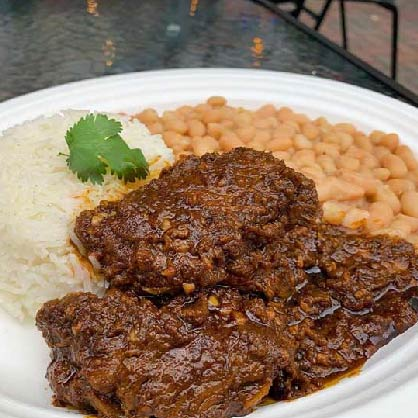
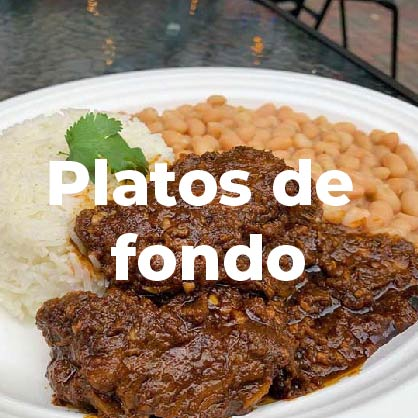
cambio de imagenes categorias

diff --git a/scss/_images.scss b/scss/_images.scss
@@ -25,30 +25,30 @@
     justify-content: space-between;
 }
 
-.categorias-imagen-piqueos{
-    background: url("../images/piqueo.jpg");
-    background-size: cover;
-    height: 300px;
-    width: 300px;
-    text-align: center;
-}
+// .categorias-imagen-piqueos{
+//     background: url("../images/piqueo.jpg");
+//     background-size: cover;
+//     height: 300px;
+//     width: 300px;
+//     text-align: center;
+// }
 
-.categorias-imagen-fondo{
-    background-image: url("../images/fondo.jpg");
-    background-size: cover;
-    height: 300px;
-    width: 300px;
-    text-align: center;
+// .categorias-imagen-fondo{
+//     background-image: url("../images/fondo.jpg");
+//     background-size: cover;
+//     height: 300px;
+//     width: 300px;
+//     text-align: center;
     
-}
+// }
 
-.categorias-imagen-postres{
-    background-image: url("../images/postre.jpg");
-    background-size: cover;
-    height: 300px;
-    width: 300px;
-    text-align: center;  
-}
+// .categorias-imagen-postres{
+//     background-image: url("../images/postre.jpg");
+//     background-size: cover;
+//     height: 300px;
+//     width: 300px;
+//     text-align: center;  
+// }
 
 .recetasRecientes-imagen{
     display: flex;

diff --git a/index.html b/index.html
@@ -49,9 +49,9 @@
     <div class="col-9">
         <h2>Categorías</h2>
             <div  class="categorias-imagen">
-                <div class="categorias-imagen-piqueos"><a href="pages/piqueos.html">Piqueos</a></div>
-                <div class="categorias-imagen-fondo"><a href="pages/fondo.html">Platos de fondo</a></div>
-                <div class="categorias-imagen-postres"><a href="pages/postres.html">Postres</a></div>            
+                <div class="categorias-imagen-piqueos"><a href="pages/piqueos.html"><img src="images/piqueo.jpg" alt="piqueo" height="300px" width="300px"></a></div>
+                <div class="categorias-imagen-fondo"><a href="pages/fondo.html"><img src="images/fondo.jpg" alt="fondo" height="300px" width="300px"></a></div>
+                <div class="categorias-imagen-postres"><a href="pages/postres.html"><img src="images/postre.jpg" alt="postre" height="300px" width="300px"></a></div>            
             </div>
     </div>        
 

diff --git a/css/styles.css b/css/styles.css
@@ -225,27 +225,6 @@ h3 {
   flex-wrap: wrap;
   justify-content: space-between; }
 
-.categorias-imagen-piqueos {
-  background: url("../images/piqueo.jpg");
-  background-size: cover;
-  height: 300px;
-  width: 300px;
-  text-align: center; }
-
-.categorias-imagen-fondo {
-  background-image: url("../images/fondo.jpg");
-  background-size: cover;
-  height: 300px;
-  width: 300px;
-  text-align: center; }
-
-.categorias-imagen-postres {
-  background-image: url("../images/postre.jpg");
-  background-size: cover;
-  height: 300px;
-  width: 300px;
-  text-align: center; }
-
 .recetasRecientes-imagen {
   display: flex;
   flex-wrap: wrap;
